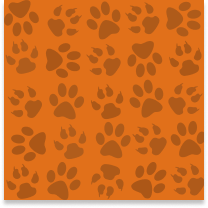
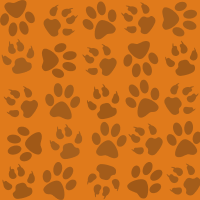
arreglar el fondo

diff --git a/public/index.html b/public/index.html
@@ -8,9 +8,21 @@
     <title>DoggyF, the App for doggy-lovers</title>
     <link href="https://fonts.googleapis.com/css2?family=Poppins:ital,wght@0,200;0,300;0,400;0,500;0,600;0,700;0,800;0,900;1,100;1,200;1,300;1,400;1,500;1,600;1,700;1,900&display=swap" rel="stylesheet">
   </head>
-  <body style="background: #eab474;">
+  <style>
     
-    <div id="app"></div>
+
+    #app {
+      
+      background-color: #E07A1B !important;
+      background-image: url('../assets/background2.png') ;
+      overflow: hidden;
+    }
+  </style>
+  
+  <body>
+    
+    <div id="app" ></div>
     <!-- built files will be auto injected -->
   </body>
+  
 </html>

diff --git a/src/views/Home.vue b/src/views/Home.vue
@@ -1,5 +1,5 @@
 <template>
-  <div class="home">
+  <div class="home2">
     <img style="width: 17rem; margin-top: 3rem;" alt="Dog Logo" src="../assets/logoDog.png" />
     <Inicio />
   </div>
@@ -16,3 +16,8 @@ export default {
   }
 }
 </script>
+<style scoped>
+   .home2 {
+     background-image: url('../assets/background2.png') ;
+   }
+</style>

diff --git a/src/components/Inicio.vue b/src/components/Inicio.vue
@@ -55,7 +55,7 @@ a {
 }
 
 .hello{
-  background-image: url("../assets/background1.png");
+  background-image: url('../assets/background2.png') ;
 }
 
 </style>
